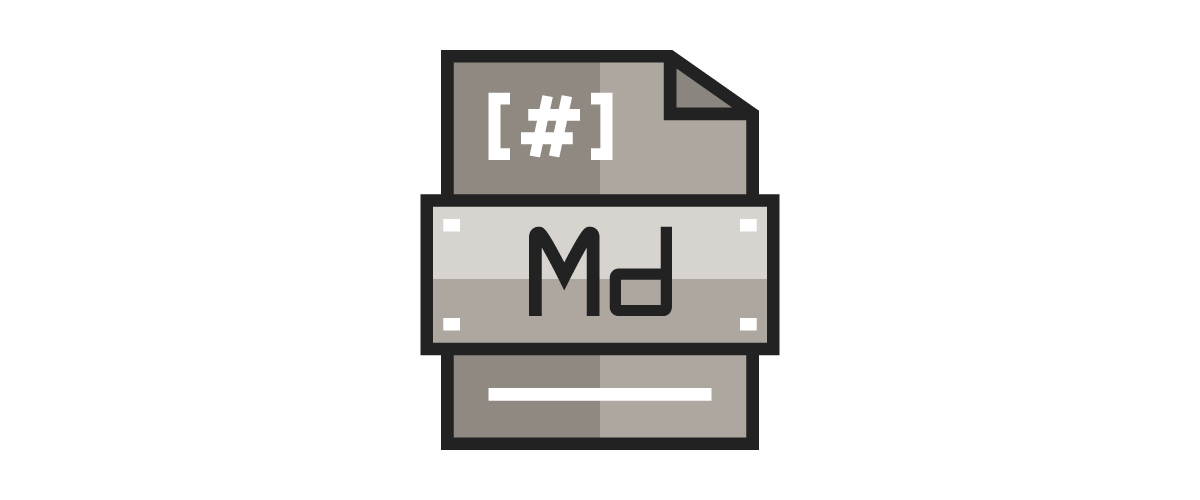
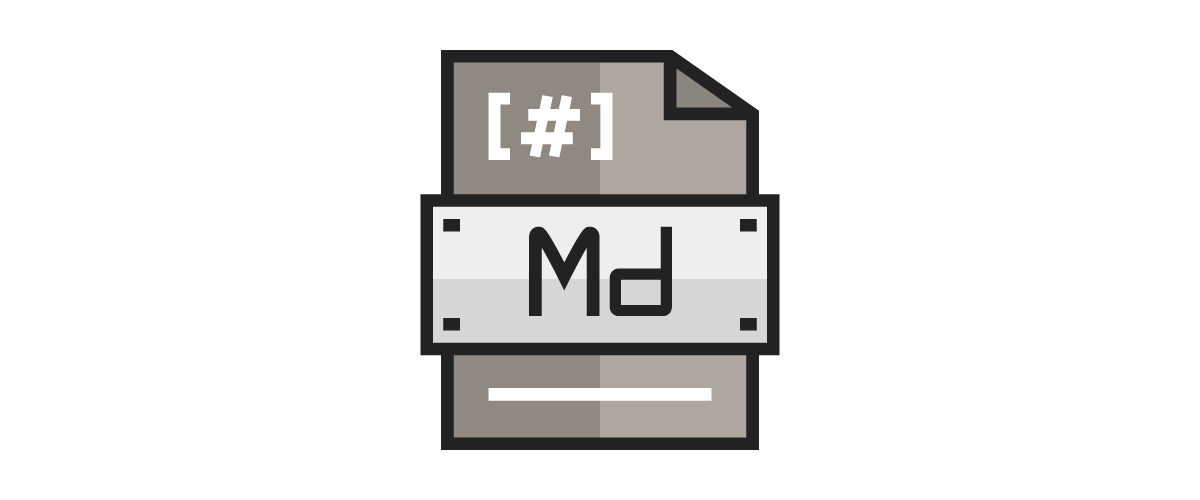
updated js files with tooltip, new assignment graphics

Changed region(s): [[0.3392, 0.39, 0.6475, 0.69]]

diff --git a/js/main.js b/js/main.js
@@ -4,7 +4,7 @@ $(function() {
     $('.list-group-item.active').parent().parent('.collapse').collapse('show');
 
 
-    //Justine added whitespace('tags')
+    //JUSTINE: added whitespace('tags')
     var pages = new Bloodhound({
         datumTokenizer: Bloodhound.tokenizers.obj.whitespace('tags', 'title'),
         // datumTokenizer: Bloodhound.tokenizers.whitespace,
@@ -32,4 +32,8 @@ $(function() {
     $('#markdown-content-container img').addClass('img-responsive');
 
 
+    // JUSTINE: Tooltip Bubbles
+    $('[data-toggle="tooltip"]').tooltip({
+        placement : 'top'
+    });
 });

diff --git a/_includes/js_files.html b/_includes/js_files.html
@@ -6,12 +6,3 @@
 <script src="{{ "/js/typeahead.bundle.min.js" | prepend: site.baseurl }} "></script>
 
 <script src="{{ "/js/main.js" | prepend: site.baseurl }} "></script>
-
-<!-- JUSTINE: To make tooltips active -->
-<script type="text/javascript">
-  $(document).ready(function(){
-      $('[data-toggle="tooltip"]').tooltip({
-          placement : 'top'
-      });
-  });
-</script>

diff --git a/_sass/_edits.scss b/_sass/_edits.scss
@@ -19,7 +19,7 @@
   // >>> found in: /_sass/bootswatch/custom/_bootswatch.scss
     //“Roboto” is default font
     //“Ubunto” for headings
-//See also: js_files.html, head.html
+//See also: main.js, head.html
 
 
 

diff --git a/_docs/topic-09/00-index/page-01.md b/_docs/topic-09/00-index/page-01.md
@@ -1,0 +1,25 @@
+---
+title: Topic Overview
+module: topic-09
+permalink: /topic-09/overview/
+redirect_from: /topic-09/
+categories: uncategorized
+tags:
+---
+
+<div class="section-title">
+  <img src="../img/assignment-09.svg" alt="" title="Assignment 9: Color" />
+  <h2 style="text-align: center;">09://Color</h2>
+</div>
+
+
+While we've explored styling briefly in the previous topics, it's time to really dig into learning how to use CSS or <span style="font-weight: bolder; text-decoration: underline; color: #E95420;">C</span>ascading <span style="font-weight: bolder; text-decoration: underline; color: #E95420;">S</span>tyle<span style="font-weight: bolder; text-decoration: underline; color: #E95420;">s</span>heets.
+
+<a href="https://www.w3schools.com/css/" target="_blank" style="font-weight: bolder; text-decoration: underline; color: #E95420;">CSS</a> is a language that tells browsers how to display and style content in HTML. It will not change the content itself, but will allow you to specify color, font, size, background, padding, alignment, how pages resize, if certain elements should be hidden, and many more qualities.
+
+By the end of this Topic, we hope you:
+<ul class="pros-and-cons">
+  <li class="icon-pro">Understand how CSS functions in web design, and the many ways we can use it in our pages.</li>
+  <li class="icon-pro">Have experimented with CSS selectors, and tried linking your _own_ stylesheet to your HTML pages.</li>
+  <li class="icon-pro">Experimented with color as an enhacement to page layouts.</li>
+</ul>
